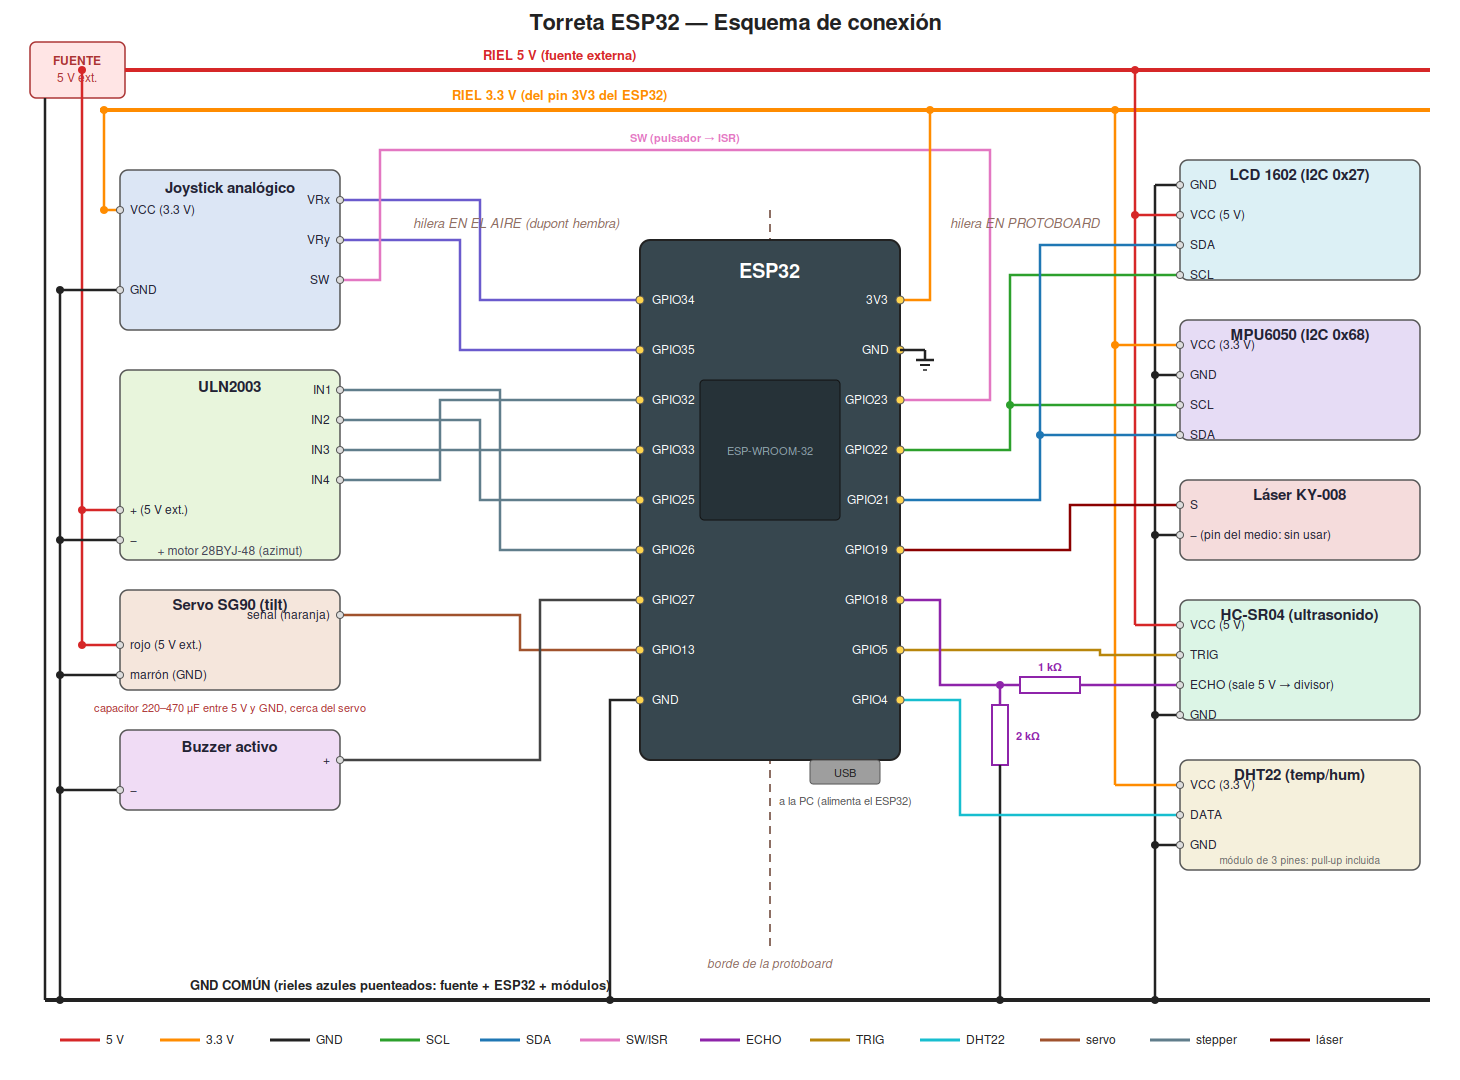
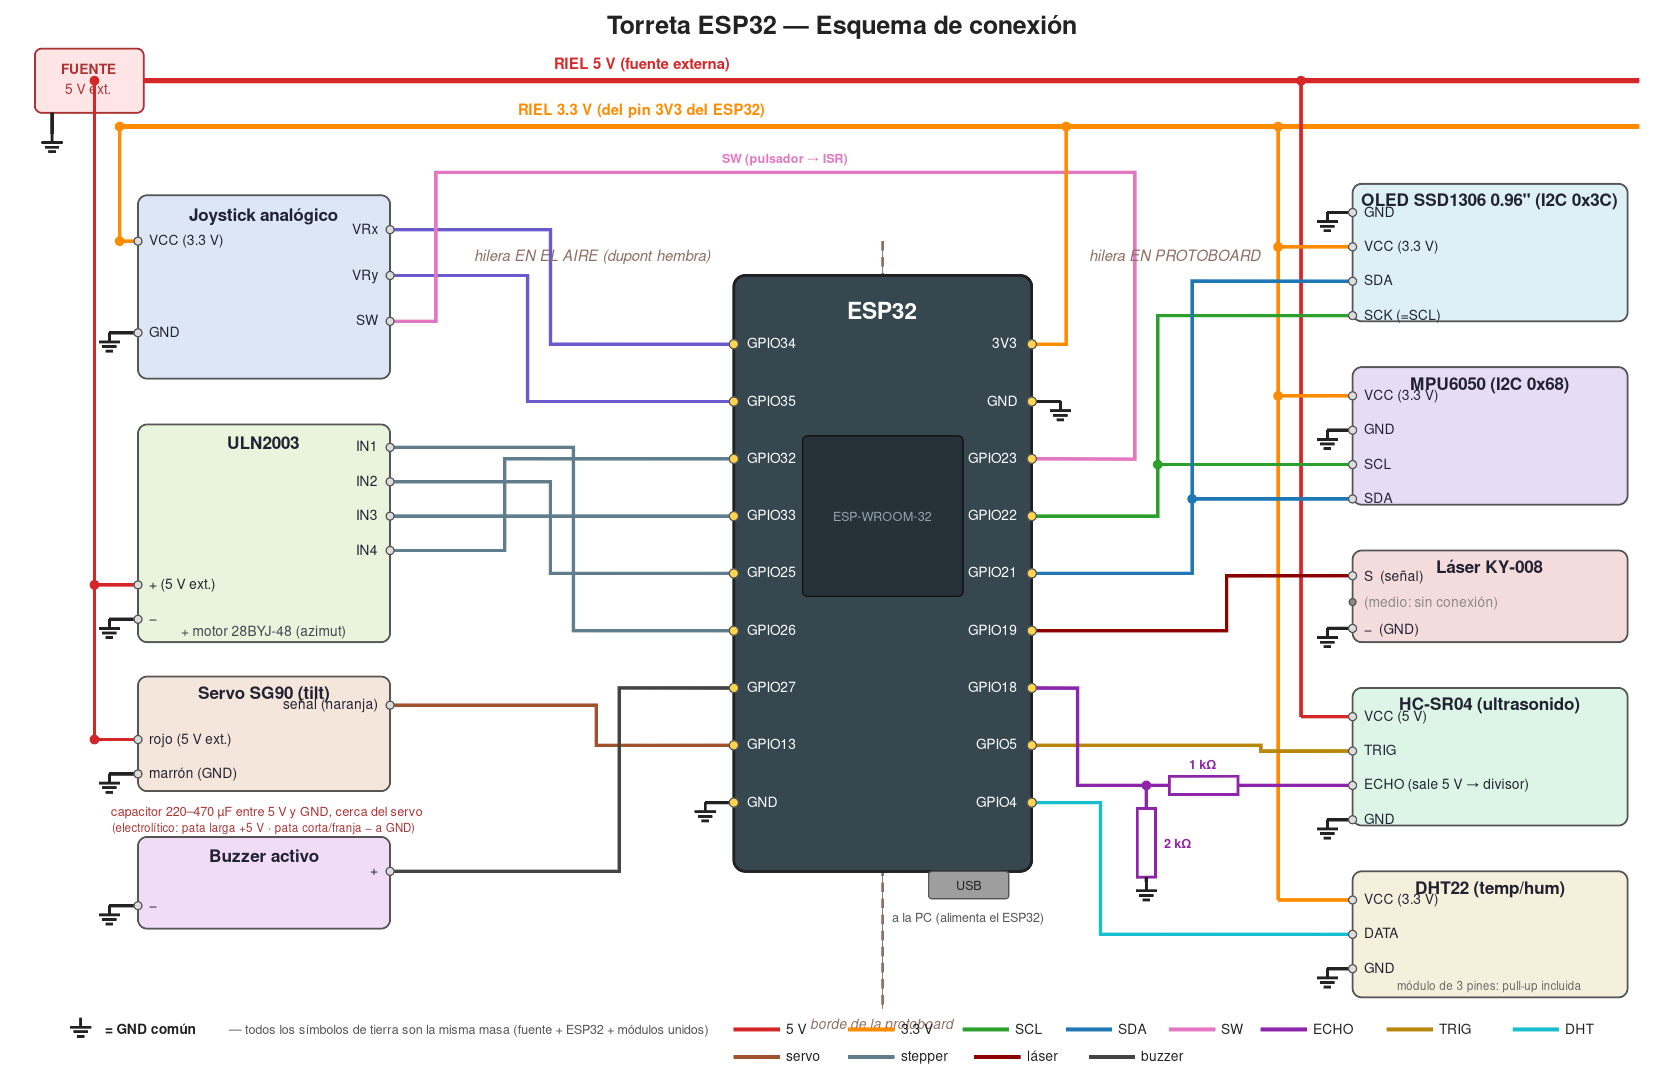
Esquema de conexión: láser de 3 terminales, capacitor del servo, símbolos de tierra y OLED
- Láser KY-008 dibujado con sus 3 terminales reales (el del medio NC)
- Capacitor del servo: detalle de polaridad y conexión (electrolítico ≥10V)
- GND con símbolos de tierra (⏚) por componente en vez de cables ruteados,
  mucho más legible; positivos y señales siguen ruteados
- Display migrado de LCD 1602 (5V, 0x27) a OLED SSD1306 (3.3V, 0x3C),
  con el reloj rotulado SCK (=SCL) como en el módulo real
- Nota: 2×1kΩ en serie equivalen a la resistencia de 2k del divisor del ECHO

Changed region(s): [[0.0, 0.0, 0.9863, 0.9778]]

diff --git a/docs/CONEXIONES.md b/docs/CONEXIONES.md
@@ -28,7 +28,7 @@ Guía de conexionado de la torreta sobre protoboard. El mapa de pines de este do
 
 | Componente | Pin del módulo | Pin ESP32 | Hilera | Alimentación |
 |---|---|---|---|---|
-| LCD 1602 I2C | SDA / SCL | GPIO21 / GPIO22 | protoboard | 5V |
+| OLED SSD1306 0.96" I2C | SDA / SCK (=SCL) | GPIO21 / GPIO22 | protoboard | 3.3V |
 | MPU6050 (GY-521) | SDA / SCL | GPIO21 / GPIO22 (mismo bus) | protoboard | 3.3V |
 | HC-SR04 | TRIG | GPIO5 | protoboard | 5V |
 | HC-SR04 | ECHO | GPIO18 **(vía divisor 1kΩ/2kΩ)** | protoboard | — |
@@ -37,7 +37,7 @@ Guía de conexionado de la torreta sobre protoboard. El mapa de pines de este do
 | Joystick | SW (pulsador / ISR) | GPIO23 | protoboard | — |
 | Servo SG90 | Señal (cable naranja) | GPIO13 | aire | **5V externa** |
 | ULN2003 | IN1 / IN2 / IN3 / IN4 | GPIO26 / GPIO25 / GPIO33 / GPIO32 | aire | **5V externa** |
-| Láser (KY-008) | S | GPIO19 | protoboard | — |
+| Láser (KY-008) | S / − (3 pines: el del medio NC) | GPIO19 / GND | protoboard | — |
 | Buzzer activo | + | GPIO27 | aire | — |
 
 **Pines prohibidos** (no usar aunque estén libres): GPIO0, 2, 12 y 15 son de *strapping* —
@@ -73,8 +73,8 @@ en el aire y se cablea con dupont hembra directo a cada módulo.
     Joystick VRx ────┤ GPIO34                           3V3 ├──── riel 3.3V
     Joystick VRy ────┤ GPIO35                           GND ├──── riel GND (azul)
      ULN2003 IN4 ────┤ GPIO32                        GPIO23 ├──── SW joystick (ISR)
-     ULN2003 IN3 ────┤ GPIO33                        GPIO22 ├──── SCL → LCD + MPU6050
-     ULN2003 IN2 ────┤ GPIO25                        GPIO21 ├──── SDA → LCD + MPU6050
+     ULN2003 IN3 ────┤ GPIO33                        GPIO22 ├──── SCL → OLED + MPU6050
+     ULN2003 IN2 ────┤ GPIO25                        GPIO21 ├──── SDA → OLED + MPU6050
      ULN2003 IN1 ────┤ GPIO26                        GPIO19 ├──── S láser KY-008
       Buzzer (+) ────┤ GPIO27                        GPIO18 ├◄─── divisor 1kΩ/2kΩ ◄── ECHO HC-SR04
  Servo (naranja) ────┤ GPIO13                         GPIO5 ├──── TRIG HC-SR04
@@ -86,12 +86,12 @@ en el aire y se cablea con dupont hembra directo a cada módulo.
 ### Distribución de alimentación
 
 ```
-FUENTE EXTERNA 5V ──► riel 5V ──┬── VCC LCD 1602
-                                ├── VCC HC-SR04
+FUENTE EXTERNA 5V ──► riel 5V ──┬── VCC HC-SR04
                                 ├── rojo servo SG90 (+ capacitor 220–470 µF a GND)
                                 └── (+) ULN2003
 
-ESP32 3V3 ────────► riel 3.3V ──┬── VCC MPU6050
+ESP32 3V3 ────────► riel 3.3V ──┬── VCC OLED SSD1306
+                                ├── VCC MPU6050
                                 ├── VCC DHT22
                                 └── VCC joystick
 
@@ -126,18 +126,20 @@ cable a la PC.
 - Sugerencia mecánica: una gota de silicona caliente o una brida entre placa y protoboard evita
   que el conjunto haga palanca cuando la torreta vibre. **Todavía no enchufar el USB.**
 
-### Paso 3 — Bus I2C (LCD + MPU6050)
+### Paso 3 — Bus I2C (OLED SSD1306 + MPU6050)
 
 Los dos comparten el bus: **SDA de ambos a GPIO21, SCL de ambos a GPIO22**.
 
-- LCD 1602: VCC a 5V, GND a masa.
+- OLED SSD1306: VCC a **3.3V**, GND a masa. *(Si el módulo rotula el reloj como `SCK`, es
+  lo mismo que `SCL` — va igual a GPIO22.)*
 - MPU6050: VCC a **3.3V**, GND a masa.
 
-Tienen direcciones distintas (LCD `0x27` o `0x3F`, MPU `0x68`), así que conviven sin conflicto.
+Tienen direcciones distintas (OLED `0x3C` —a veces `0x3D`—, MPU `0x68`), así que conviven sin
+conflicto en el mismo bus.
 
-> Nota: el backpack del LCD tiene pull-ups a 5V; en la práctica funciona directo con el ESP32
-> de forma confiable, pero si hay un level shifter bidireccional disponible, este es el lugar
-> para usarlo.
+> Nota: ambos son de 3.3V, así que el bus I2C trabaja a nivel del ESP32 sin level shifter.
+> El SSD1306 es gráfico de 128×64 px y se maneja con la librería `Adafruit_SSD1306` +
+> `Adafruit_GFX` (o `U8g2`) — no con `LiquidCrystal_I2C`.
 
 ### Paso 4 — HC-SR04 (con divisor en el ECHO)
 
@@ -171,8 +173,28 @@ ECHO ──[ 1kΩ ]──┬── GPIO18
 ### Paso 7 — Servo SG90 (elevación)
 
 - Marrón a GND, **rojo al riel de 5V externo** (no al ESP32), naranja a GPIO13 (dupont hembra).
-- Si hay un capacitor electrolítico (220–470µF), ponerlo entre 5V y GND cerca del servo,
-  respetando polaridad: absorbe los picos de arranque.
+
+**Capacitor de desacople (recomendado):** un electrolítico de **220–470 µF** absorbe los
+picos de corriente del servo al arrancar (lo que evita que la tensión se hunda). Va **en
+paralelo con la alimentación del servo**, lo más cerca posible de sus terminales:
+
+```
+  riel +5V ───┬──────────── rojo del servo
+              │
+            ┌─┴─┐
+            │ + │  capacitor electrolítico 220–470 µF
+            │   │  (tensión del capacitor ≥ 10 V)
+            │ − │
+            └─┬─┘
+              │
+  riel GND ───┴──────────── marrón del servo
+```
+
+⚠️ **Polaridad — es electrolítico, importa:** la **pata larga es `+`** y va al riel de **5V**;
+la **pata corta es `−`** y va al **GND**. El cuerpo del capacitor tiene una **franja impresa
+con signos `−`** que marca la pata negativa. Si lo conectás al revés, el capacitor se calienta,
+se hincha y puede **reventar** — verificá la polaridad antes de energizar. Elegí un capacitor de
+**al menos 10 V** (los de 6,3 V quedan justos para 5 V; 16 V o 25 V andan perfecto).
 
 ### Paso 8 — Stepper 28BYJ-48 + ULN2003 (azimut)
 
@@ -183,7 +205,11 @@ ECHO ──[ 1kΩ ]──┬── GPIO18
 
 ### Paso 9 — Láser y buzzer
 
-- Láser KY-008: S a GPIO19, `−` a masa (el pin del medio no se usa).
+- Láser KY-008: tiene **3 terminales físicos**, pero solo se usan 2 — `S` a
+  GPIO19 y `−` a masa. El **pin del medio queda al aire** (no está conectado a
+  nada internamente; es solo apoyo mecánico, por eso no tiene serigrafía). El
+  láser se alimenta por el propio pin `S`; a 3.3 V del GPIO enciende, aunque más
+  tenue que a 5 V.
 - Buzzer activo: `+` a GPIO27 (dupont hembra), `−` a masa.
 - Ambos consumen poco y van directo del GPIO; si el láser se ve débil, pasarlo a 5V con un
   transistor NPN como llave.
@@ -201,10 +227,11 @@ Con todo desconectado, revisar módulo por módulo:
 ### Paso 11 — Encendido por etapas y verificación
 
 1. Enchufar **solo el USB** (sin fuente externa). El LED del ESP32 enciende y nada calienta.
-   Tocar con el dedo el MPU y el LCD: tibio está bien; quemante es polaridad invertida —
+   Tocar con el dedo el MPU y el OLED: tibio está bien; quemante es polaridad invertida —
    desconectar ya.
-2. Cargar un sketch **I2C scanner**: debe reportar dos direcciones (`0x27`/`0x3F` y `0x68`).
-   Eso valida LCD y MPU6050 de una vez.
+2. Cargar un sketch **I2C scanner**: debe reportar dos direcciones (`0x3C` del OLED y `0x68`
+   del MPU6050).
+   Eso valida OLED y MPU6050 de una vez.
 3. Probar sensores por monitor serie: distancia del HC-SR04 (acercar la mano), temperatura del
    DHT22, valores X/Y del joystick (centro ≈ 2048) y el pulsador.
 4. Recién ahora conectar la **fuente externa de 5V** y probar actuadores de a uno: servo